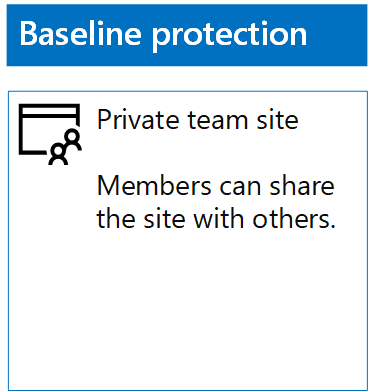
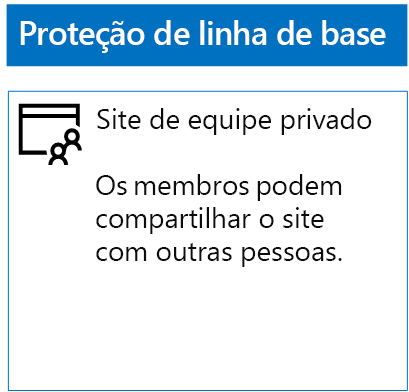
commit bilingual contents

diff --git a/SecurityCompliance/review-office-365-cas-alerts.md b/SecurityCompliance/review-office-365-cas-alerts.md
@@ -1,5 +1,5 @@
 ---
-title: Examinar e tomar medidas em alertas no Office 365 Cloud app Security
+title: Revisar e tomar atitudes sobre alertas no Office 365 Cloud App Security
 ms.author: deniseb
 author: denisebmsft
 manager: laurawi
@@ -13,55 +13,55 @@ search.appverid:
 ms.assetid: 97e9c3d9-df89-458e-924b-369becee5532
 description: Use a página alertas no Office 365 Cloud app Security para exibir possíveis problemas e tomar ações. Você pode descartar ou resolver alertas e, se necessário, suspender uma conta de usuário.
 ms.openlocfilehash: ddef10293fca7b722a13babdca5c05bbe2398cb3
-ms.sourcegitcommit: e7a776a04ef6ed5e287a33cfdc36aa2d72862b55
+ms.sourcegitcommit: 0017dc6a5f81c165d9dfd88be39a6bb17856582e
 ms.translationtype: MT
 ms.contentlocale: pt-BR
-ms.lasthandoff: 03/29/2019
-ms.locfileid: "31000034"
+ms.lasthandoff: 04/23/2019
+ms.locfileid: "32261470"
 ---
-# <a name="review-and-take-action-on-alerts-in-office-365-cloud-app-security"></a><span data-ttu-id="9bdad-104">Examinar e tomar medidas em alertas no Office 365 Cloud app Security</span><span class="sxs-lookup"><span data-stu-id="9bdad-104">Review and take action on alerts in Office 365 Cloud App Security</span></span>
+# <a name="review-and-take-action-on-alerts-in-office-365-cloud-app-security"></a><span data-ttu-id="276d9-104">Revisar e tomar atitudes sobre alertas no Office 365 Cloud App Security</span><span class="sxs-lookup"><span data-stu-id="276d9-104">Review and take action on alerts in Office 365 Cloud App Security</span></span>
   
-|<span data-ttu-id="9bdad-105">Avaliação \* *\>*\*</span><span class="sxs-lookup"><span data-stu-id="9bdad-105">\*\*\*\*Evaluation\*\* \>\*\*</span></span>|<span data-ttu-id="9bdad-106">Planejamento \* *\>*\*</span><span class="sxs-lookup"><span data-stu-id="9bdad-106">\*\*\*\*Planning\*\* \>\*\*</span></span>|<span data-ttu-id="9bdad-107">Implantação \* *\>*\*</span><span class="sxs-lookup"><span data-stu-id="9bdad-107">\*\*\*\*Deployment\*\* \>\*\*</span></span>|<span data-ttu-id="9bdad-108">Utilização \* \* \*</span><span class="sxs-lookup"><span data-stu-id="9bdad-108">\*\*\*\*Utilization\*\*\*\*</span></span>|
+|<span data-ttu-id="276d9-105">Avaliação \* *\>*\*</span><span class="sxs-lookup"><span data-stu-id="276d9-105">\*\*\*\*Evaluation\*\* \>\*\*</span></span>|<span data-ttu-id="276d9-106">Planejamento \* *\>*\*</span><span class="sxs-lookup"><span data-stu-id="276d9-106">\*\*\*\*Planning\*\* \>\*\*</span></span>|<span data-ttu-id="276d9-107">Implantação \* *\>*\*</span><span class="sxs-lookup"><span data-stu-id="276d9-107">\*\*\*\*Deployment\*\* \>\*\*</span></span>|<span data-ttu-id="276d9-108">Utilização \* \* \*</span><span class="sxs-lookup"><span data-stu-id="276d9-108">\*\*\*\*Utilization\*\*\*\*</span></span>|
 |:-----|:-----|:-----|:-----|
-|[<span data-ttu-id="9bdad-109">Iniciar avaliação</span><span class="sxs-lookup"><span data-stu-id="9bdad-109">Start evaluating</span></span>](office-365-cas-overview.md) <br/> |[<span data-ttu-id="9bdad-110">Iniciar planejamento</span><span class="sxs-lookup"><span data-stu-id="9bdad-110">Start planning</span></span>](get-ready-for-office-365-cas.md) <br/> |[<span data-ttu-id="9bdad-111">Iniciar implantação</span><span class="sxs-lookup"><span data-stu-id="9bdad-111">Start deploying</span></span>](turn-on-office-365-cas.md) <br/> |<span data-ttu-id="9bdad-112">Você está aqui!</span><span class="sxs-lookup"><span data-stu-id="9bdad-112">You are here!</span></span>  <br/> [<span data-ttu-id="9bdad-113">Próximas etapas</span><span class="sxs-lookup"><span data-stu-id="9bdad-113">Next steps</span></span>](#next-steps) <br/> |
+|[<span data-ttu-id="276d9-109">Iniciar avaliação</span><span class="sxs-lookup"><span data-stu-id="276d9-109">Start evaluating</span></span>](office-365-cas-overview.md) <br/> |[<span data-ttu-id="276d9-110">Iniciar planejamento</span><span class="sxs-lookup"><span data-stu-id="276d9-110">Start planning</span></span>](get-ready-for-office-365-cas.md) <br/> |[<span data-ttu-id="276d9-111">Iniciar implantação</span><span class="sxs-lookup"><span data-stu-id="276d9-111">Start deploying</span></span>](turn-on-office-365-cas.md) <br/> |<span data-ttu-id="276d9-112">Você está aqui!</span><span class="sxs-lookup"><span data-stu-id="276d9-112">You are here!</span></span>  <br/> [<span data-ttu-id="276d9-113">Próximas etapas</span><span class="sxs-lookup"><span data-stu-id="276d9-113">Next steps</span></span>](#next-steps) <br/> |
    
-<span data-ttu-id="9bdad-114">Você pode usar a página alertas no Office 365 Cloud app Security para exibir possíveis problemas e, se necessário, tomar medidas.</span><span class="sxs-lookup"><span data-stu-id="9bdad-114">You can use the Alerts page in Office 365 Cloud App Security to view potential issues and, if needed, take action.</span></span>
+<span data-ttu-id="276d9-114">Você pode usar a página alertas no Office 365 Cloud app Security para exibir possíveis problemas e, se necessário, tomar medidas.</span><span class="sxs-lookup"><span data-stu-id="276d9-114">You can use the Alerts page in Office 365 Cloud App Security to view potential issues and, if needed, take action.</span></span>
   
 > [!NOTE]
-> <span data-ttu-id="9bdad-115">Você deve ser um administrador global ou administrador de segurança para executar as tarefas neste artigo.</span><span class="sxs-lookup"><span data-stu-id="9bdad-115">You must be a global administrator or security administrator to perform the tasks in this article.</span></span> <span data-ttu-id="9bdad-116">Consulte [permissões no centro de conformidade de &amp; segurança do Office 365](permissions-in-the-security-and-compliance-center.md).</span><span class="sxs-lookup"><span data-stu-id="9bdad-116">See [Permissions in the Office 365 Security &amp; Compliance Center](permissions-in-the-security-and-compliance-center.md).</span></span> 
+> <span data-ttu-id="276d9-115">Você deve ser um administrador global ou administrador de segurança para executar as tarefas neste artigo.</span><span class="sxs-lookup"><span data-stu-id="276d9-115">You must be a global administrator or security administrator to perform the tasks in this article.</span></span> <span data-ttu-id="276d9-116">Consulte [permissões no centro de conformidade de &amp; segurança do Office 365](permissions-in-the-security-and-compliance-center.md).</span><span class="sxs-lookup"><span data-stu-id="276d9-116">See [Permissions in the Office 365 Security &amp; Compliance Center](permissions-in-the-security-and-compliance-center.md).</span></span> 
   
-## <a name="how-to-get-to-the-alerts-page"></a><span data-ttu-id="9bdad-117">Como acessar a página alertas</span><span class="sxs-lookup"><span data-stu-id="9bdad-117">How to get to the Alerts page</span></span>
+## <a name="how-to-get-to-the-alerts-page"></a><span data-ttu-id="276d9-117">Como acessar a página alertas</span><span class="sxs-lookup"><span data-stu-id="276d9-117">How to get to the Alerts page</span></span>
 
-1. <span data-ttu-id="9bdad-118">Vá para o portal do Cloud app Security[https://portal.cloudappsecurity.com](https://portal.cloudappsecurity.com)() e entre.</span><span class="sxs-lookup"><span data-stu-id="9bdad-118">Go to the Cloud App Security portal ([https://portal.cloudappsecurity.com](https://portal.cloudappsecurity.com)) and sign in.</span></span>
+1. <span data-ttu-id="276d9-118">Vá para o portal do Cloud app Security[https://portal.cloudappsecurity.com](https://portal.cloudappsecurity.com)() e entre.</span><span class="sxs-lookup"><span data-stu-id="276d9-118">Go to the Cloud App Security portal ([https://portal.cloudappsecurity.com](https://portal.cloudappsecurity.com)) and sign in.</span></span>
   
-2. <span data-ttu-id="9bdad-119">Na barra de navegação na parte superior da tela, escolha **alertas**.</span><span class="sxs-lookup"><span data-stu-id="9bdad-119">In the navigation bar across the top of the screen, choose **Alerts**.</span></span><br/><span data-ttu-id="9bdad-120">![Na página alertas, você pode ver os alertas que foram disparados e as ações realizadas.](media/3b53d4c9-4b13-435d-8547-8c0f9ae6b914.png)</span><span class="sxs-lookup"><span data-stu-id="9bdad-120">![On the Alerts page, you can see alerts that were triggered and any actions taken.](media/3b53d4c9-4b13-435d-8547-8c0f9ae6b914.png)</span></span>
+2. <span data-ttu-id="276d9-119">Na barra de navegação na parte superior da tela, escolha **alertas**.</span><span class="sxs-lookup"><span data-stu-id="276d9-119">In the navigation bar across the top of the screen, choose **Alerts**.</span></span><br/><span data-ttu-id="276d9-120">![Na página alertas, você pode ver os alertas que foram disparados e as ações realizadas.](media/3b53d4c9-4b13-435d-8547-8c0f9ae6b914.png)</span><span class="sxs-lookup"><span data-stu-id="276d9-120">![On the Alerts page, you can see alerts that were triggered and any actions taken.](media/3b53d4c9-4b13-435d-8547-8c0f9ae6b914.png)</span></span>
  
 > [!NOTE]
-> <span data-ttu-id="9bdad-121">Os alertas de segurança do Cloud app também estão visíveis no centro de conformidade do & de segurança (vá para **alertas** > ,**exibir alertas**.</span><span class="sxs-lookup"><span data-stu-id="9bdad-121">Cloud App Security alerts are also visible in the Security & Compliance Center (go to **Alerts** > **View alerts**.</span></span> <span data-ttu-id="9bdad-122">No momento, no entanto, você deve resolver esses alertas no portal do Cloud app Security e no centro de conformidade do & de segurança.</span><span class="sxs-lookup"><span data-stu-id="9bdad-122">Currently, however, you must resolve these alerts in both the Cloud App Security portal and the Security & Compliance Center.</span></span> <span data-ttu-id="9bdad-123">Para saber mais, consulte [viewIng Cloud app Security Alerts](alert-policies.md#viewing-cloud-app-security-alerts).)</span><span class="sxs-lookup"><span data-stu-id="9bdad-123">To learn more, see [Viewing Cloud App Security alerts](alert-policies.md#viewing-cloud-app-security-alerts).)</span></span> 
+> <span data-ttu-id="276d9-121">Os alertas de segurança do Cloud app também estão visíveis no centro de conformidade do & de segurança (vá para **alertas** > ,**exibir alertas**.</span><span class="sxs-lookup"><span data-stu-id="276d9-121">Cloud App Security alerts are also visible in the Security & Compliance Center (go to **Alerts** > **View alerts**.</span></span> <span data-ttu-id="276d9-122">No momento, no entanto, você deve resolver esses alertas no portal do Cloud app Security e no centro de conformidade do & de segurança.</span><span class="sxs-lookup"><span data-stu-id="276d9-122">Currently, however, you must resolve these alerts in both the Cloud App Security portal and the Security & Compliance Center.</span></span> <span data-ttu-id="276d9-123">Para saber mais, consulte [viewIng Cloud app Security Alerts](alert-policies.md#viewing-cloud-app-security-alerts).)</span><span class="sxs-lookup"><span data-stu-id="276d9-123">To learn more, see [Viewing Cloud App Security alerts](alert-policies.md#viewing-cloud-app-security-alerts).)</span></span> 
  
-## <a name="review-and-handle-alerts"></a><span data-ttu-id="9bdad-124">Examinar e lidar com alertas</span><span class="sxs-lookup"><span data-stu-id="9bdad-124">Review and handle alerts</span></span>
+## <a name="review-and-handle-alerts"></a><span data-ttu-id="276d9-124">Examinar e lidar com alertas</span><span class="sxs-lookup"><span data-stu-id="276d9-124">Review and handle alerts</span></span>
 
-<span data-ttu-id="9bdad-125">Os alertas ajudam a identificar atividades no seu ambiente de nuvem do Office 365 que você pode querer investigar.</span><span class="sxs-lookup"><span data-stu-id="9bdad-125">Alerts help you identify activities in your Office 365 cloud environment that you might want to investigate further.</span></span> <span data-ttu-id="9bdad-126">Você também pode optar por criar novas políticas ou editar políticas existentes com base nos alertas exibidos.</span><span class="sxs-lookup"><span data-stu-id="9bdad-126">You might also decide to create new policies or edit existing policies based on the alerts you see.</span></span> <span data-ttu-id="9bdad-127">Por exemplo, se você vir um administrador fazendo logon a partir de um local estranho, poderá decidir configurar uma política que impede que os administradores entrem no Office 365 de determinados locais.</span><span class="sxs-lookup"><span data-stu-id="9bdad-127">For example, if you see an administrator logging on from a strange location, you may decide to set up a policy that prevents administrators from signing in to Office 365 from certain locations.</span></span>
+<span data-ttu-id="276d9-125">Os alertas ajudam a identificar atividades no seu ambiente de nuvem do Office 365 que você pode querer investigar.</span><span class="sxs-lookup"><span data-stu-id="276d9-125">Alerts help you identify activities in your Office 365 cloud environment that you might want to investigate further.</span></span> <span data-ttu-id="276d9-126">Você também pode optar por criar novas políticas ou editar políticas existentes com base nos alertas exibidos.</span><span class="sxs-lookup"><span data-stu-id="276d9-126">You might also decide to create new policies or edit existing policies based on the alerts you see.</span></span> <span data-ttu-id="276d9-127">Por exemplo, se você vir um administrador fazendo logon a partir de um local estranho, poderá decidir configurar uma política que impede que os administradores entrem no Office 365 de determinados locais.</span><span class="sxs-lookup"><span data-stu-id="276d9-127">For example, if you see an administrator logging on from a strange location, you may decide to set up a policy that prevents administrators from signing in to Office 365 from certain locations.</span></span>
   
 > [!TIP]
-> <span data-ttu-id="9bdad-128">Você pode filtrar os alertas por **categoria** ou por **gravidade** para que possa gerenciar o mais importante primeiro.</span><span class="sxs-lookup"><span data-stu-id="9bdad-128">You can filter the alerts by **Category** or by **Severity** so you can manage the most important ones first.</span></span> 
+> <span data-ttu-id="276d9-128">Você pode filtrar os alertas por **categoria** ou por **gravidade** para que possa gerenciar o mais importante primeiro.</span><span class="sxs-lookup"><span data-stu-id="276d9-128">You can filter the alerts by **Category** or by **Severity** so you can manage the most important ones first.</span></span> 
   
-<span data-ttu-id="9bdad-129">Para cada alerta, examine o que causou o resultado para que você possa decidir qual ação executar.</span><span class="sxs-lookup"><span data-stu-id="9bdad-129">For each alert, look into what caused it so you can decide what action to take.</span></span> <span data-ttu-id="9bdad-130">Para ver mais detalhes sobre um alerta e realizar ações, como resolver o alerta ou suspender uma conta de usuário, escolha o alerta para abrir uma página de detalhes.</span><span class="sxs-lookup"><span data-stu-id="9bdad-130">To see more details about an alert and to take action, such as resolving the alert or suspending a users account, choose the alert to open a details page.</span></span> <span data-ttu-id="9bdad-131">Na página detalhes, você pode revisar o log de atividades, contas e usuários relacionados ao alerta e realizar ações como as seguintes:</span><span class="sxs-lookup"><span data-stu-id="9bdad-131">On the details page, you can review the activity log, accounts, and users that are related to the alert, and take actions such as the following:</span></span>
+<span data-ttu-id="276d9-129">Para cada alerta, examine o que causou o resultado para que você possa decidir qual ação executar.</span><span class="sxs-lookup"><span data-stu-id="276d9-129">For each alert, look into what caused it so you can decide what action to take.</span></span> <span data-ttu-id="276d9-130">Para ver mais detalhes sobre um alerta e realizar ações, como resolver o alerta ou suspender uma conta de usuário, escolha o alerta para abrir uma página de detalhes.</span><span class="sxs-lookup"><span data-stu-id="276d9-130">To see more details about an alert and to take action, such as resolving the alert or suspending a users account, choose the alert to open a details page.</span></span> <span data-ttu-id="276d9-131">Na página detalhes, você pode revisar o log de atividades, contas e usuários relacionados ao alerta e realizar ações como as seguintes:</span><span class="sxs-lookup"><span data-stu-id="276d9-131">On the details page, you can review the activity log, accounts, and users that are related to the alert, and take actions such as the following:</span></span>
   
-- <span data-ttu-id="9bdad-132">**Ignorar** Se o alerta for falso positivo, ignore-o.</span><span class="sxs-lookup"><span data-stu-id="9bdad-132">**Dismiss** If the alert was a false positive, dismiss it.</span></span> <span data-ttu-id="9bdad-133">Opcionalmente, você pode adicionar um comentário explicando por que você o descartau.</span><span class="sxs-lookup"><span data-stu-id="9bdad-133">You can optionally add a comment explaining why you dismissed it.</span></span> 
+- <span data-ttu-id="276d9-132">**Ignorar** Se o alerta for falso positivo, ignore-o.</span><span class="sxs-lookup"><span data-stu-id="276d9-132">**Dismiss** If the alert was a false positive, dismiss it.</span></span> <span data-ttu-id="276d9-133">Opcionalmente, você pode adicionar um comentário explicando por que você o descartau.</span><span class="sxs-lookup"><span data-stu-id="276d9-133">You can optionally add a comment explaining why you dismissed it.</span></span> 
     
-- <span data-ttu-id="9bdad-134">**Resolver alerta** Se o alerta foi disparado por uma atividade que você sabe que não é uma ameaça, resolva-o.</span><span class="sxs-lookup"><span data-stu-id="9bdad-134">**Resolve alert** If the alert was triggered by an activity that you know isn't a threat, resolve it.</span></span> <span data-ttu-id="9bdad-135">Opcionalmente, você pode adicionar um comentário explicando por que você o resolveu.</span><span class="sxs-lookup"><span data-stu-id="9bdad-135">You can optionally add a comment explaining why you resolved it.</span></span> 
+- <span data-ttu-id="276d9-134">**Resolver alerta** Se o alerta foi disparado por uma atividade que você sabe que não é uma ameaça, resolva-o.</span><span class="sxs-lookup"><span data-stu-id="276d9-134">**Resolve alert** If the alert was triggered by an activity that you know isn't a threat, resolve it.</span></span> <span data-ttu-id="276d9-135">Opcionalmente, você pode adicionar um comentário explicando por que você o resolveu.</span><span class="sxs-lookup"><span data-stu-id="276d9-135">You can optionally add a comment explaining why you resolved it.</span></span> 
     
-- <span data-ttu-id="9bdad-136">**Suspender** Se você suspeitar de entradas não autorizadas em uma conta, por exemplo, alguém entrando de outro país quando você sabe que a pessoa está fisicamente em um escritório local, você pode [suspender a conta](suspend-or-restore-an-account-in-ocas.md) enquanto investiga o que está acontecendo.</span><span class="sxs-lookup"><span data-stu-id="9bdad-136">**Suspend** If you suspect unauthorized sign ins on an account, for example, someone signing in from another country when you know that person is physically at a local office, you can [suspend the account](suspend-or-restore-an-account-in-ocas.md) while you investigate what's going on.</span></span> 
+- <span data-ttu-id="276d9-136">**Suspender** Se você suspeitar de entradas não autorizadas em uma conta, por exemplo, alguém entrando de outro país quando você sabe que a pessoa está fisicamente em um escritório local, você pode [suspender a conta](suspend-or-restore-an-account-in-ocas.md) enquanto investiga o que está acontecendo.</span><span class="sxs-lookup"><span data-stu-id="276d9-136">**Suspend** If you suspect unauthorized sign ins on an account, for example, someone signing in from another country when you know that person is physically at a local office, you can [suspend the account](suspend-or-restore-an-account-in-ocas.md) while you investigate what's going on.</span></span> 
     
-## <a name="next-steps"></a><span data-ttu-id="9bdad-137">Próximas etapas</span><span class="sxs-lookup"><span data-stu-id="9bdad-137">Next steps</span></span>
+## <a name="next-steps"></a><span data-ttu-id="276d9-137">Próximas etapas</span><span class="sxs-lookup"><span data-stu-id="276d9-137">Next steps</span></span>
 
-- [<span data-ttu-id="9bdad-138">Investigar uma atividade</span><span class="sxs-lookup"><span data-stu-id="9bdad-138">Investigate an activity</span></span>](investigate-an-activity-in-office-365-cas.md)
+- [<span data-ttu-id="276d9-138">Investigar uma atividade</span><span class="sxs-lookup"><span data-stu-id="276d9-138">Investigate an activity</span></span>](investigate-an-activity-in-office-365-cas.md)
     
-- [<span data-ttu-id="9bdad-139">Suspender ou restaurar uma conta de usuário</span><span class="sxs-lookup"><span data-stu-id="9bdad-139">Suspend or restore a user account</span></span>](suspend-or-restore-an-account-in-ocas.md)
+- [<span data-ttu-id="276d9-139">Suspender ou restaurar uma conta de usuário</span><span class="sxs-lookup"><span data-stu-id="276d9-139">Suspend or restore a user account</span></span>](suspend-or-restore-an-account-in-ocas.md)
     
-- <span data-ttu-id="9bdad-140">Exibir uma lista de [logs de tráfego da Web e fontes de dados](web-traffic-logs-and-data-sources-for-ocas.md) suportados</span><span class="sxs-lookup"><span data-stu-id="9bdad-140">View a list of supported [Web traffic logs and data sources](web-traffic-logs-and-data-sources-for-ocas.md)</span></span>
+- <span data-ttu-id="276d9-140">Exibir uma lista de [logs de tráfego da Web e fontes de dados](web-traffic-logs-and-data-sources-for-ocas.md) suportados</span><span class="sxs-lookup"><span data-stu-id="276d9-140">View a list of supported [Web traffic logs and data sources](web-traffic-logs-and-data-sources-for-ocas.md)</span></span>
     
-- <span data-ttu-id="9bdad-141">ReVisar suas [atividades de utilização do Office 365 Cloud app Security](utilization-activities-for-ocas.md)</span><span class="sxs-lookup"><span data-stu-id="9bdad-141">Review your [utilization activities for Office 365 Cloud App Security](utilization-activities-for-ocas.md)</span></span>
+- <span data-ttu-id="276d9-141">ReVisar suas [atividades de utilização do Office 365 Cloud app Security](utilization-activities-for-ocas.md)</span><span class="sxs-lookup"><span data-stu-id="276d9-141">Review your [utilization activities for Office 365 Cloud App Security](utilization-activities-for-ocas.md)</span></span>
     
 
